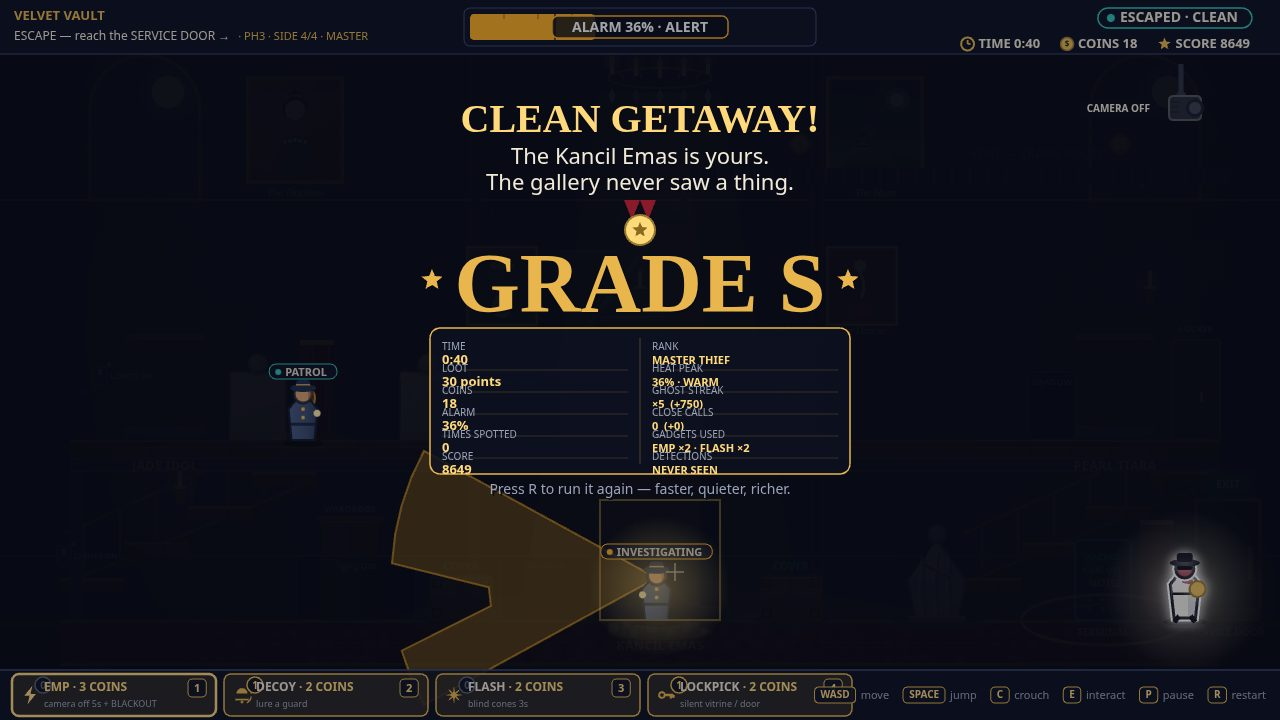
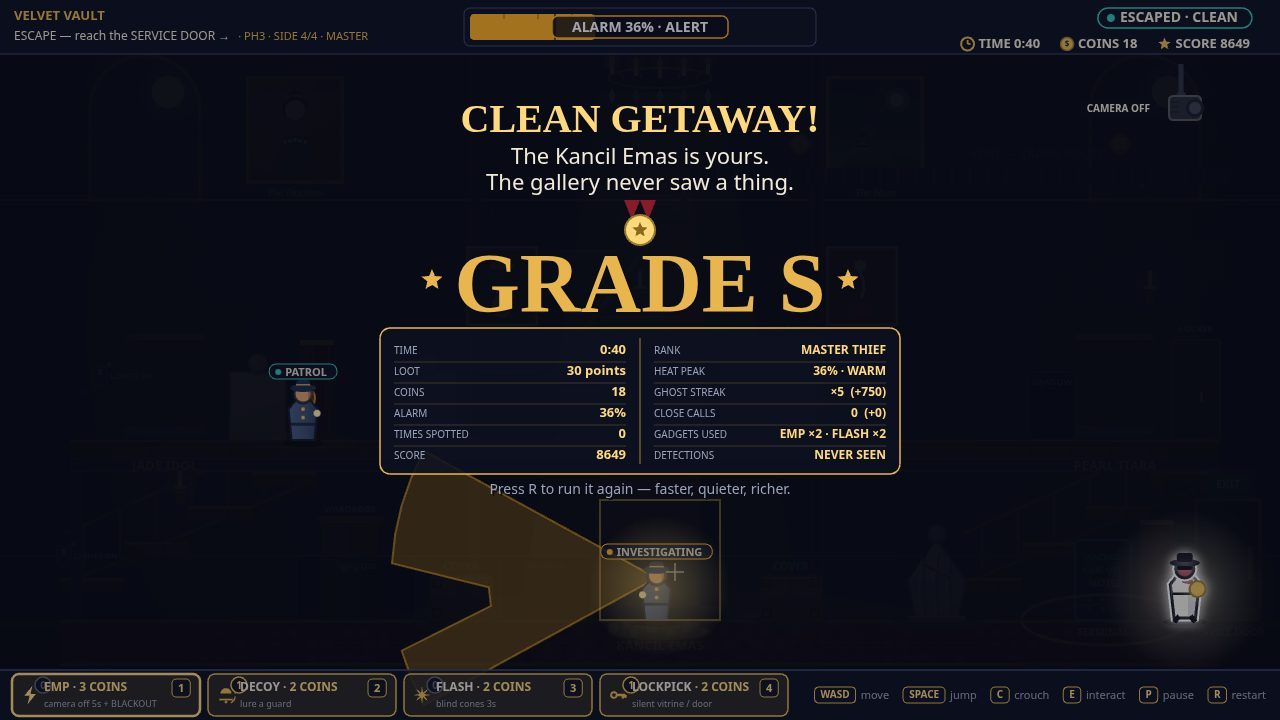
VELVET VAULT rev13 — debrief single-line rows + wider panel, WASD gap from LOCKPICK, alert restaged to 75% (door locked), stealth shows IN SHADOW + SEARCHING at LKP
- Debrief: one line per row (label left, value right), panel widened
  380-900, firmer centre divider; values stay live, shrink before
  touching their label. Win still Grade S, 0:40 / LOOT 30 / COINS 18 /
  ALARM 36% / SCORE 8649 / 0 spotted.
- Bottom bar: cards 204 -> 188, so the WASD chip clears the LOCKPICK
  card by ~27px (was sitting on its right edge).
- Alert: one camera lock-on + crouch-wait on the 596 grid + chase =
  ALARM 75% tier 2, DOOR LOCKED -> ROOF, blackout intact (was 99%
  LOCKDOWN). Narrow pace lane 560-620; wide lane pinned the meter at
  99% via grid crossings, narrow/hold lanes flip-flop the staged catch.
- Stealth: thief seen, FLASH, hides crouched in the ground shadow
  zone while the guard SEARCHES the last-seen spot — IN SHADOW pill +
  teal ring and the amber '?' LKP marker both live from state, alarm
  33%. Minigame panel leaves this frame (minigame still runs; the win
  route hacks the terminal through it).
- Screenshots re-taken, determinism re-checked (title/stealth/win
  byte-identical across runs; alert has two SwiftShader raster
  variants, state identical); live play-test 9/9.

diff --git a/game/src/shots.js b/game/src/shots.js
@@ -361,73 +361,95 @@ export function buildShot(name) {
   }
 
   if (name === 'stealth') {
-    // The rev11 stealth frame shows a NEW system in action: the thief
-    // at the security terminal, mid-hack, the minigame panel open with
-    // its needle inside the green zone. The route in is the win
-    // route's opening (wait behind the crate until the floor guard
-    // turns left at 740, EMP at 580, walk to the terminal) so the
-    // thief arrives unseen; the freeze lands with the needle at
-    // 50-55, just after the blackout ends, so the panel and the hall
-    // both read. The EMP is paid (3 coins: 240, 540, 580).
-    const plan = [
-      { x: 250 },
-      { x: 350, action: 'waitGuardLeft' },
-      { x: 540 },
-      { x: 580, action: 'emp' },
-      { x: 1100 },
-      { x: 1100, action: 'openHack' },
-    ];
-    stepWorld(state, plan, 60 / STEP);
-    // Freeze the moment the needle sits mid-green (50-55): the panel
-    // shows a live needle inside the zone, hits 0/3, and the blackout
-    // (3s from the EMP) has just ended, so the hall is lit again.
-    stepWorld(state, [], 3 / STEP, (s) => s.minigame && s.minigame.active
-      && s.minigame.needle >= 50 && s.minigame.needle <= 55);
+    // Rev13 — the rev11/12 stealth frame showed the hacking minigame,
+    // but the two rev12 systems it was supposed to showcase never
+    // read: the thief at the terminal stands in NO shadow zone, and
+    // both guards were patrol/return (the LKP marker only draws for
+    // search/suspect). This frame shows them both, from the real rules:
+    // the thief is seen, FLASHes the chasing guard blind, and hides
+    // crouched in the ground shadow zone (500-590) while the guard
+    // SEARCHES the last-seen spot — IN SHADOW pill + teal ring on the
+    // thief, amber "?" ring at the last-seen spot, SEARCHING label.
+    // The route, measured in node (rev13 probes 9-12):
+    //  - Walk to 860 and stand 2s: the guard finishes investigating
+    //    the walk noise and his suspicion decays to 0 (patrol). A
+    //    bare detour without the stand leaves him investigating at
+    //    suspicion ~33, ten pixels from the thief — the chase then
+    //    triggers with the guard adjacent and the staged catch
+    //    flip-flops chase<->search every step (det 2000+, alarm 100).
+    //  - Walk back to 700 (the alert shot's walk), pace 560-620:
+    //    the guard investigates the pace noise and chases with ~60px
+    //    of separation (det 1, alarm ~38 at the trigger).
+    //  - FLASH at once, where the thief stands: the guard is blinded
+    //    3s, so he cannot catch the thief while the thief moves, and
+    //    loses the trail after 2s (chase -> search, alarm -6).
+    //  - Run to 545 and crouch: the thief is inside the shadow zone
+    //    (centre 565) before the guard flips to search. The freeze
+    //    lands the step the guard enters search: alarm ~33, tier 0,
+    //    the camera still live, the Kancil vitrine in frame.
+    // The minigame panel leaves this frame (the minigame itself still
+    // runs: the win route hacks the terminal through it, play-tested).
+    stepWorld(state, [
+      { x: 860 },
+      { x: 860, action: 'hold', seconds: 2 },
+    ], 20 / STEP);
+    stepWorld(state, [{ x: 700 }], 10 / STEP);
+    stepWorld(state, [
+      { x: 560, x1: 620, action: 'pace' },
+    ], 40 / STEP, (s) => s.guards[0].state === 'chase');
+    const fx = Math.round(state.player.x);
+    stepWorld(state, [{ x: fx, action: 'flash' }], 5 / STEP);
+    stepWorld(state, [
+      { x: 545 },
+      { x: 545, action: 'wait', seconds: 10 },
+    ], 12 / STEP, (s) => s.guards[0].state === 'search' && s.shadow.inShadow);
     return state;
   }
 
   if (name === 'alert') {
-    // The alarm is earned honestly, but NOT by kiting the floor guard.
-    // Kiting was tried three ways and every one ends the same way:
-    // the thief cannot outrun a chasing guard (265 vs 305), so any
-    // flee ends with the guard adjacent to a standing thief, and the
-    // staged catch then flips chase<->search every step (+1 detection
-    // and +15% alarm per step — 3227 detections for a still hold,
-    // 6076 for a flee to 860, 7235 for a flee to 400). The crate at
-    // 430 cannot break a chase either: the guard walks through it and
-    // keeps seeing the thief from the other side. So the alarm is
-    // driven by the CAMERA instead: the thief stands at 860, where the
-    // camera's beam reaches him but the crate at 760 blocks the floor
-    // guard's line of sight (14 lock-ons, 0 chases, measured; hits
-    // ~4.4s apart). Two lock-ons (+25% each) plus creep put the meter
-    // near 54% — the rest is two laser-grid crossings (+10% each,
-    // the thief really does cross the beams) and the chase itself
-    // (+15%), so the freeze lands near 92% (tier 2 LOCKDOWN). Then
-    // the thief walks into the guard's lane at 700 and PACES between
-    // the crates (520-740): running at full speed is loud, so the
-    // guard investigates the noise and follows it, and pacing keeps
-    // the thief between the crates — visible, never shielded — while
-    // his suspicion fills. The lane is the widest that stays clear
-    // of both crates (the thief's body at centre 520 is [500,540],
-    // at 740 it is [720,760]). Running left past the crate at 430
-    // shields the thief and suspicion decays before it hits 100 (that
-    // attempt ended with the guard back on patrol); crouch-walking
-    // away does not work either (130px/s against a suspect guard at
-    // ~121px/s barely grows the gap, and crossing the crate at 760
-    // cuts the line of sight). The pace triggers the chase with the
-    // guard ~129px behind the thief (a 100px lane only leaves ~29px
-    // — the guard's centre is p.x+19, the thief's p.x+20 — and the
-    // guard closes to catch range during the EMP step). The run stops
-    // at the chase trigger; the EMP fires where the thief stands and
-    // he keeps running away from the guard, so the guard (closing
-    // 40px/s) cannot reach catch range before the freeze.
+    // Rev13 — the alarm is earned honestly, but NOT by kiting the
+    // floor guard, and NOT by the rev12 pace: pacing the wide lane
+    // (520-740) crosses the laser grid (596/660/724) every 2s for
+    // +10% a crossing, so the meter pins at 99% (tier 2 LOCKDOWN)
+    // before the chase even triggers. The rev13 route freezes at
+    // ~75% (tier 2 ALERT, door locked) instead — measured in node
+    // (rev13 probes 2-13), same dramatic beat (THE BLACKOUT, thief
+    // haloed, red cone, Kancil, CAMERA OFF, DOOR LOCKED -> ROOF):
+    //  - One camera lock-on only (waitAlarm 25): the thief stands at
+    //    860, where the beam reaches him but the crate at 760 blocks
+    //    the floor guard's line of sight. Phase 1 ends at alarm ~39
+    //    (one lock-on +25, grid crossings on the walk in, creep).
+    //  - Walk to 700, crouch-wait 1.0s at 590, pace the NARROW lane
+    //    560-620: the guard investigates the pace noise and chases
+    //    with ~60px of separation, 2s in. The freeze lands at ~75%
+    //    (tier 2 ALERT, door locked -> ROOF): one lock-on +25, one
+    //    walk grid +10, the crouch-wait's body across the 596 laser
+    //    grid +10, the chase +15, creep. The stop is the chase
+    //    itself — the rev12 stop (alarm >= 66 AND chase) would also
+    //    fire now, but the chase alone is the honest trigger.
+    //    A 1.5s wait lets the guard close in and the staged catch
+    //    flip-flops (det 10, alarm 99); a 2.0s wait never triggers a
+    //    clean chase at all (det 2828). 1.0s is the measured value.
+    //  - EMP where the thief stands, run away from the guard: the
+    //    blackout (3s) and camera-off (5s) still frame the freeze.
+    // Lanes that do NOT work, measured: 520-580 (a 60px lane lets the
+    // guard catch the thief in the same update the chase triggers, so
+    // the staged catch flip-flops chase<->search every step: det
+    // 2000+, alarm 100); standing still / holding (same catch, the
+    // guard walks up adjacent); 530-590 and 500-560 (the chase never
+    // triggers cleanly). Without the crouch-wait the freeze lands at
+    // 65% (tier 1, door NOT locked): the second lock-on would add
+    // +25 and overshoot to ~90, and the one grid crossing that would
+    // lift it to ~75 is blocked by the 2s grid cooldown in every lane
+    // tried — the crouch-wait is what buys that crossing.
     const plan = [
       { x: 860 },
-      { x: 860, action: 'waitAlarm', alarm: 50 },
+      { x: 860, action: 'waitAlarm', alarm: 25 },
       { x: 700 },
-      { x: 520, x1: 740, action: 'pace' },
+      { x: 590, action: 'wait', seconds: 1.0 },
+      { x: 560, x1: 620, action: 'pace' },
     ];
-    stepWorld(state, plan, 60 / STEP, (s) => s.alarm >= 66 && s.guards[0].state === 'chase');
+    stepWorld(state, plan, 60 / STEP, (s) => s.guards[0].state === 'chase');
     const cx = Math.round(state.player.x + state.player.width / 2);
     const gx = Math.round(state.guards[0].x + 19);
     const dir = cx < gx ? -1 : 1; // keep running away from the guard

diff --git a/game/src/render.js b/game/src/render.js
@@ -3256,8 +3256,11 @@ function drawHud(ctx, s) {
   // effect / duration, so the bar now shows cost AND effect.
   // Rev11: four cards now — LOCKPICK joins (key 4, cost live from
   // TOOLS, affordability like the others). The cards are narrower
-  // (186) so the row still clears the controls hint; a gadget the
-  // planning screen chose is FREE once, and the card says so.
+  // (188) so the row clears the controls hint: at 204 the WASD chip
+  // sat on the LOCKPICK card's right edge (cards ended at 852, the
+  // hint starts at ~815). At 188 the cards end at 788, a clear ~27px
+  // gap to the hint. A gadget the planning screen chose is FREE once,
+  // and the card says so.
   const tools = [
     { id: 'emp', key: TOOLS.emp.key, name: TOOLS.emp.name, cost: TOOLS.emp.cost, blurb: 'camera off 5s + BLACKOUT', icon: 'bolt' },
     { id: 'decoy', key: TOOLS.decoy.key, name: TOOLS.decoy.name, cost: TOOLS.decoy.cost, blurb: 'lure a guard', icon: 'bell' },
@@ -3266,7 +3269,7 @@ function drawHud(ctx, s) {
   ];
   const cardY = FIELD.height - 46;
   const cardH = 42;
-  const cardW = 204;
+  const cardW = 188;
   let tx = 12;
   for (const t of tools) {
     // Rev12 — Gadget Inventory: the stock count lives on the card
@@ -3728,9 +3731,9 @@ function drawWin(ctx, s) {
   // Rev12 — Mission Debrief: the old stats table becomes a proper
   // two-column debrief. Left: the run's numbers (all live). Right:
   // what happened — heist rank, peak heat, ghost streak, close calls,
-  // and the gadgets actually used, all live from state. Same panel
-  // footprint as the rev11 table (430-850 x 328-474), so the floor,
-  // the open vitrine and the thief at the door stay clear.
+  // and the gadgets actually used, all live from state. Same y
+  // footprint as the rev11 table (328-474), widened to 380-900, so
+  // the floor, the open vitrine and the thief at the door stay clear.
   const gadgetsUsedText = (() => {
     const used = ['emp', 'decoy', 'flash', 'lockpick']
       .filter((k) => (s.gadgetsUsed && s.gadgetsUsed[k] > 0))
@@ -3754,8 +3757,18 @@ function drawWin(ctx, s) {
     ['GADGETS USED', gadgetsUsedText],
     ['DETECTIONS', s.detections === 0 ? 'NEVER SEEN' : `${s.detections} × SEEN`],
   ];
-  const tx0 = 430;
-  const tw = 420;
+  // Rev13 — the rev12 stacked label-above-value rows crowded: six
+  // rows of two text lines in 146px put each value on the next row's
+  // label, and the last value sat on the panel's bottom edge. One
+  // line per row now (label left, value right-aligned), a wider panel
+  // (380-900) so the longest live value ("EMP ×2 · FLASH ×2") clears
+  // its label, a firmer centre divider and clearer row rules. Same y
+  // footprint (328-474): the floor, the open vitrine and the thief at
+  // the door stay clear, and the "Press R" line at 494 still clears
+  // the panel. Values stay live from state; a long live value shrinks
+  // (13 -> 11 -> 10) before it may touch its label.
+  const tx0 = 380;
+  const tw = 520;
   const ty0 = 328;
   ctx.fillStyle = 'rgba(13,17,32,0.85)';
   roundRect(ctx, tx0, ty0, tw, 146, 10);
@@ -3764,38 +3777,44 @@ function drawWin(ctx, s) {
   ctx.lineWidth = 1.5;
   ctx.stroke();
   // Centre divider between the two columns.
-  ctx.strokeStyle = 'rgba(232,182,76,0.3)';
-  ctx.lineWidth = 1;
+  ctx.strokeStyle = 'rgba(232,182,76,0.45)';
+  ctx.lineWidth = 1.5;
   ctx.beginPath();
   ctx.moveTo(tx0 + tw / 2, ty0 + 10);
   ctx.lineTo(tx0 + tw / 2, ty0 + 136);
   ctx.stroke();
   const drawDebriefCol = (rows, x0, w, valueSize = 13) => {
     rows.forEach(([label, value], i) => {
-      const ry = ty0 + 24 + i * 22;
+      const ry = ty0 + 26 + i * 21;
+      let size = valueSize;
+      ctx.font = `10px ${FONT}`;
+      const labelW = ctx.measureText(label).width;
+      ctx.font = `bold ${size}px ${FONT}`;
+      while (size > 10 && labelW + ctx.measureText(value).width > w - 36) {
+        size -= 1;
+        ctx.font = `bold ${size}px ${FONT}`;
+      }
       ctx.textAlign = 'left';
       ctx.font = `10px ${FONT}`;
       ctx.fillStyle = PALETTE.muted;
-      ctx.fillText(label, x0 + 12, ry - 2);
-      ctx.textAlign = 'left';
-      ctx.font = `bold ${valueSize}px ${FONT}`;
+      ctx.fillText(label, x0 + 14, ry);
+      ctx.textAlign = 'right';
+      ctx.font = `bold ${size}px ${FONT}`;
       ctx.fillStyle = PALETTE.goldBright;
-      ctx.fillText(value, x0 + 12, ry + 12);
+      ctx.fillText(value, x0 + w - 14, ry);
       if (i < rows.length - 1) {
-        ctx.strokeStyle = 'rgba(232,182,76,0.18)';
+        ctx.strokeStyle = 'rgba(232,182,76,0.22)';
         ctx.lineWidth = 1;
         ctx.beginPath();
-        ctx.moveTo(x0 + 12, ry + 18);
-        ctx.lineTo(x0 + w - 12, ry + 18);
+        ctx.moveTo(x0 + 14, ry + 8);
+        ctx.lineTo(x0 + w - 14, ry + 8);
         ctx.stroke();
       }
     });
   };
-  // Two columns share the 146px height: label above value, 22px a row.
-  // The right column's GADGETS value is the longest ("EMP ×2 · FLASH
-  // ×2" at 11px fits its 198px column); shrink it if it ever runs long.
+  // Two columns share the 146px height: one line per row, 21px a row.
   drawDebriefCol(leftRows, tx0, tw / 2);
-  drawDebriefCol(rightRows, tx0 + tw / 2, tw / 2, 11);
+  drawDebriefCol(rightRows, tx0 + tw / 2, tw / 2, 12);
   ctx.textAlign = 'center';
   ctx.font = `14px ${FONT}`;
   line('Press R to run it again — faster, quieter, richer.', FIELD.width / 2, 494, PALETTE.muted);
